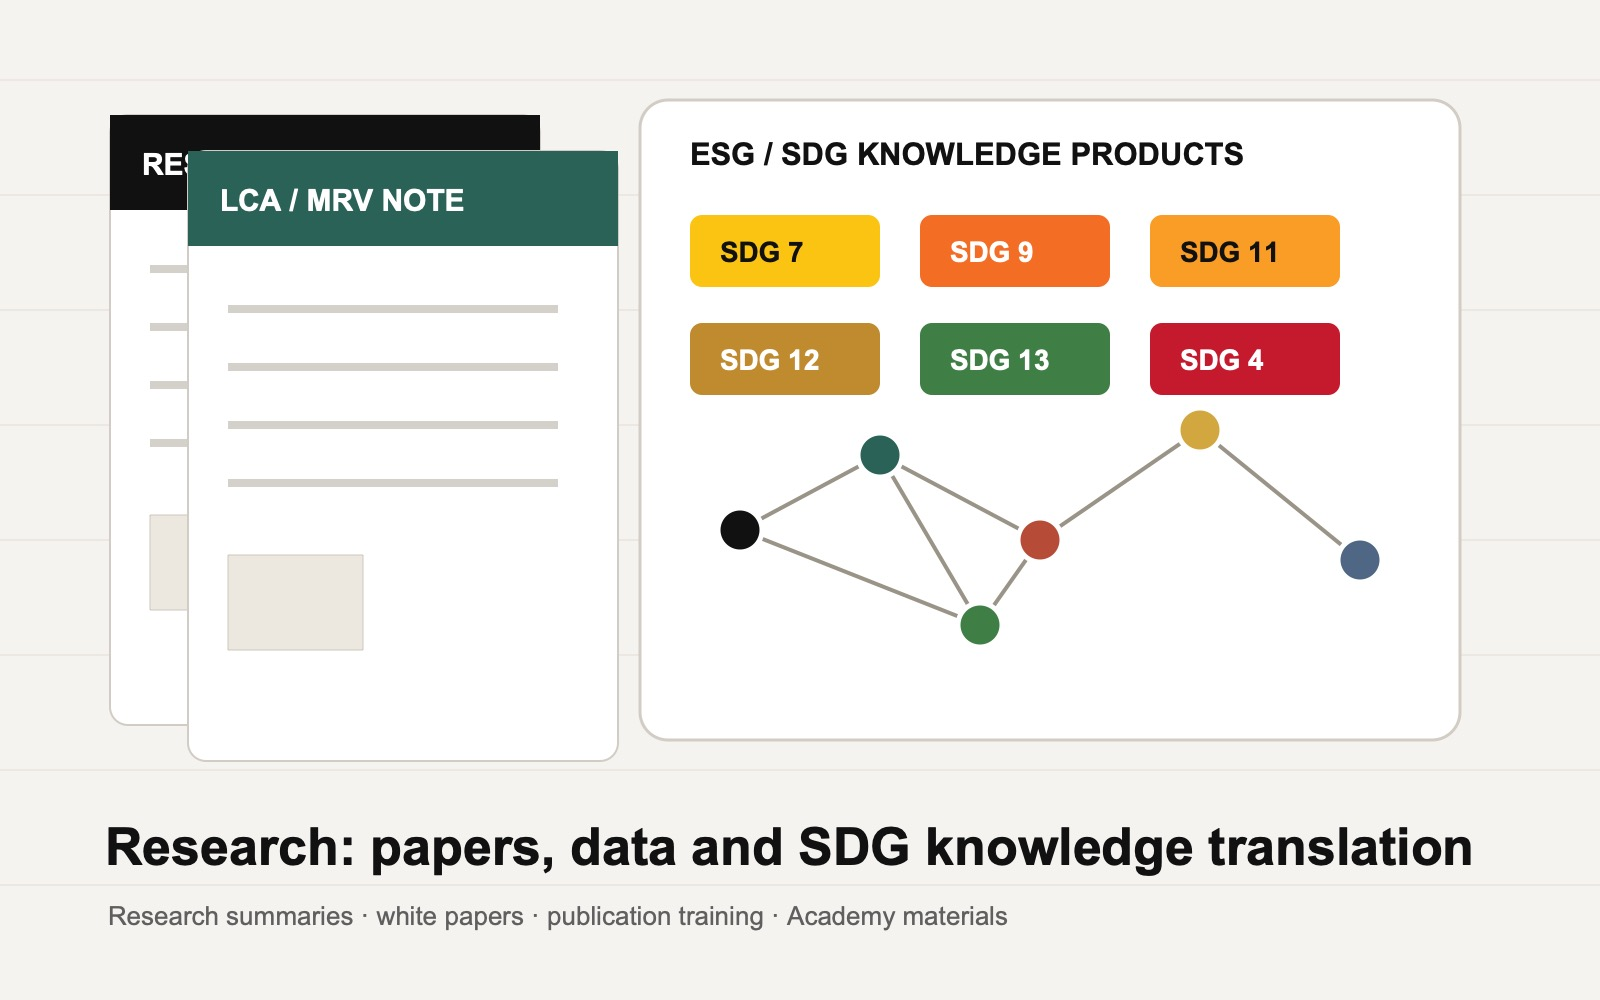
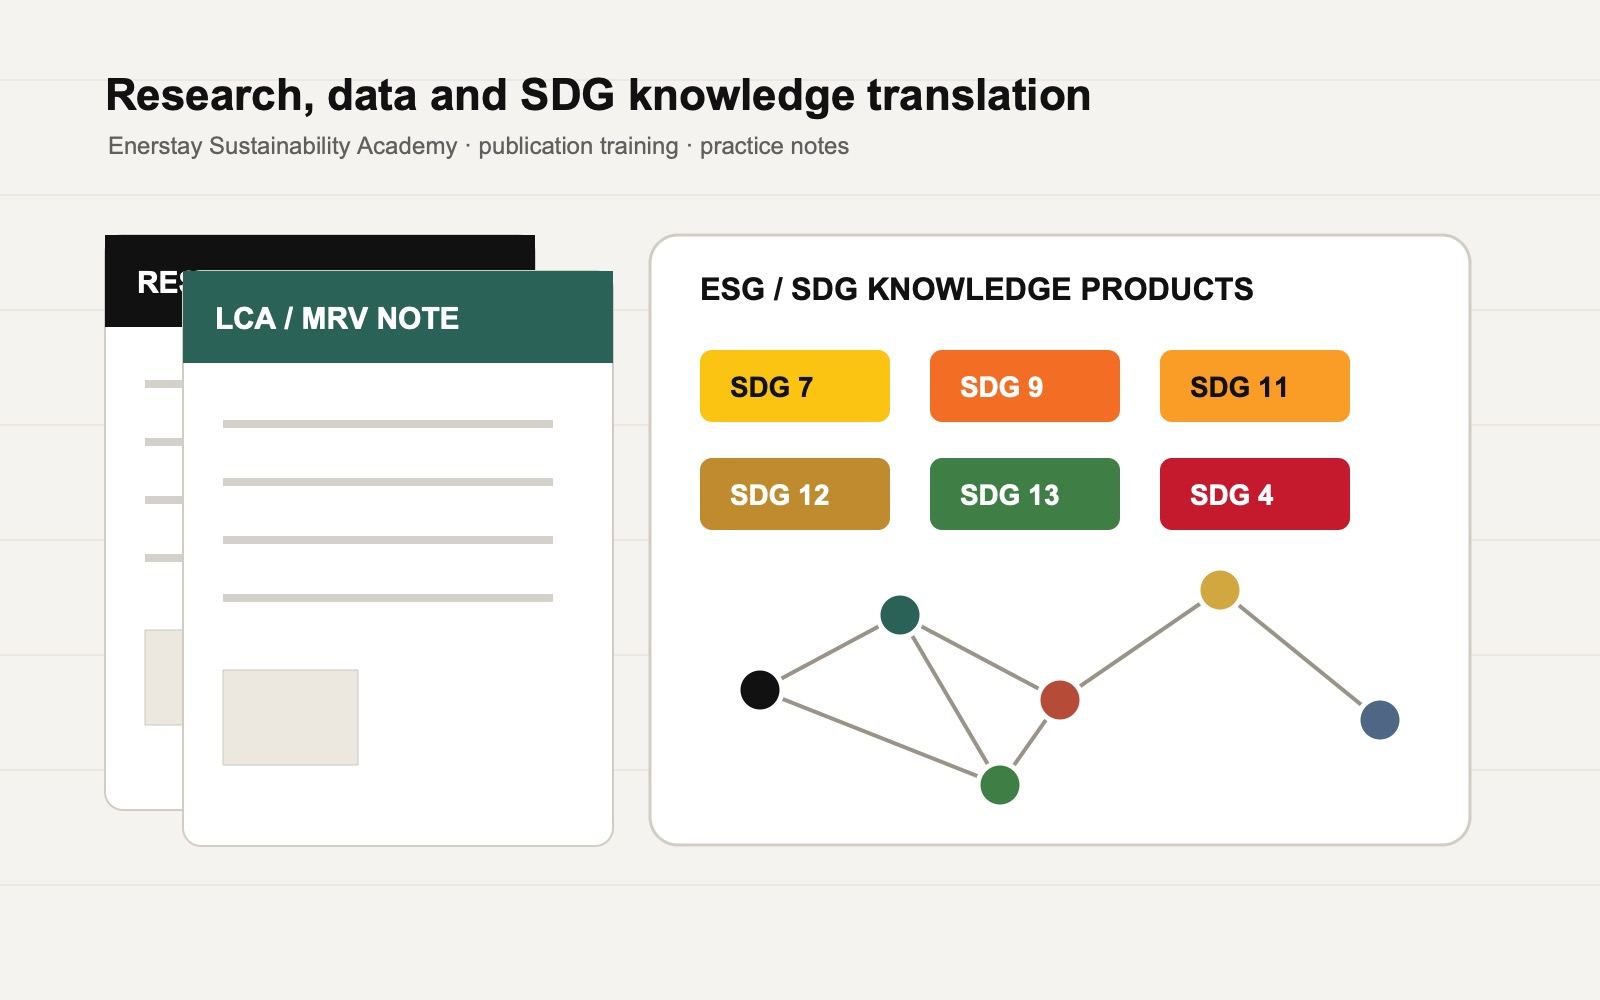
Tighten bilingual layout and research section

diff --git a/styles.css b/styles.css
@@ -139,12 +139,12 @@ a {
   font-size: 13px;
 }
 
-.lang-toggle [data-lang-current] {
+.lang-toggle [data-active="true"] {
   background: var(--ink);
   color: #fff;
 }
 
-.lang-toggle [data-lang-next] {
+.lang-toggle span:not([data-active="true"]) {
   color: var(--muted);
 }
 
@@ -258,6 +258,10 @@ html[lang="en"] h2 {
   font-size: clamp(30px, 3.4vw, 42px);
 }
 
+html[lang="zh-CN"] .nav {
+  font-size: 13px;
+}
+
 h3 {
   margin-bottom: 10px;
   font-size: 21px;
@@ -346,7 +350,7 @@ h3 {
 .section {
   width: min(1180px, calc(100% - 36px));
   margin: 0 auto;
-  padding: clamp(64px, 9vw, 108px) 0;
+  padding: clamp(52px, 7vw, 86px) 0;
 }
 
 .intro {
@@ -603,6 +607,14 @@ h3 {
   border-top: 1px solid var(--line);
 }
 
+.training,
+.compact-research {
+  position: relative;
+  background: #f0eee8;
+  box-shadow: 0 0 0 100vmax #f0eee8;
+  clip-path: inset(0 -100vmax);
+}
+
 .track-grid,
 .standard-grid {
   display: grid;
@@ -789,8 +801,8 @@ h3 {
 
 .research {
   display: grid;
-  grid-template-columns: 0.92fr 1.08fr;
-  gap: clamp(28px, 5vw, 64px);
+  grid-template-columns: minmax(280px, 0.72fr) minmax(0, 1.28fr);
+  gap: clamp(24px, 4vw, 46px);
   align-items: center;
 }
 
@@ -800,7 +812,7 @@ h3 {
 }
 
 .research-visual img {
-  aspect-ratio: 4 / 3;
+  aspect-ratio: 16 / 10;
   width: 100%;
   object-fit: contain;
   border-radius: 8px;
@@ -1527,7 +1539,7 @@ textarea {
 }
 
 .credentials-priority {
-  padding-top: clamp(56px, 8vw, 88px);
+  padding-top: clamp(54px, 7vw, 82px);
 }
 
 .priority-highlights {
@@ -2034,11 +2046,23 @@ textarea {
   }
 
   .hero {
-    min-height: 760px;
+    min-height: 700px;
   }
 
   .catalog-hero {
-    min-height: 760px;
+    min-height: 700px;
+  }
+
+  .section {
+    padding: 42px 0;
+  }
+
+  .credentials-priority {
+    padding-top: 44px;
+  }
+
+  .trust-bridge {
+    padding: 20px 0;
   }
 
   .hero-content {
@@ -2055,7 +2079,7 @@ textarea {
   }
 
   h2 {
-    font-size: 31px;
+    font-size: 29px;
   }
 
   .founder-card h2 {

diff --git a/script.js b/script.js
@@ -836,8 +836,7 @@ Object.assign(translations.en, {
 let activeLanguage = "en";
 const languageStorageKey = "enerstay-language-v3";
 const toggle = document.querySelector("[data-lang-toggle]");
-const langCurrent = document.querySelector("[data-lang-current]");
-const langNext = document.querySelector("[data-lang-next]");
+const langOptions = document.querySelectorAll("[data-lang-option]");
 const nodes = document.querySelectorAll("[data-i18n]");
 const engagementForm = document.querySelector("[data-engagement-form]");
 const siteHeader = document.querySelector(".site-header");
@@ -853,9 +852,10 @@ function renderLanguage(language) {
       node.textContent = translations[language][key];
     }
   });
-  if (langCurrent && langNext) {
-    langCurrent.textContent = language === "zh" ? "中" : "EN";
-    langNext.textContent = language === "zh" ? "EN" : "中";
+  if (langOptions.length) {
+    langOptions.forEach((option) => {
+      option.dataset.active = String(option.dataset.langOption === language);
+    });
   } else if (toggle) {
     toggle.textContent = language === "zh" ? "EN" : "中";
   }

diff --git a/research.html b/research.html
@@ -39,7 +39,7 @@
         <a href="research.html" data-i18n="nav.research">Research</a>
         <a href="index.html#contact" data-i18n="nav.contact">Contact</a>
       </nav>
-      <button class="lang-toggle" type="button" aria-label="Switch language" data-lang-toggle><span data-lang-current>EN</span><span data-lang-next>中</span></button>
+      <button class="lang-toggle" type="button" aria-label="Switch language" data-lang-toggle><span data-lang-option="en">EN</span><span data-lang-option="zh">中</span></button>
     </header>
 
     <main>

diff --git a/training.html b/training.html
@@ -39,7 +39,7 @@
         <a href="research.html" data-i18n="nav.research">Research</a>
         <a href="index.html#contact" data-i18n="nav.contact">Contact</a>
       </nav>
-      <button class="lang-toggle" type="button" aria-label="Switch language" data-lang-toggle><span data-lang-current>EN</span><span data-lang-next>中</span></button>
+      <button class="lang-toggle" type="button" aria-label="Switch language" data-lang-toggle><span data-lang-option="en">EN</span><span data-lang-option="zh">中</span></button>
     </header>
 
     <main>

diff --git a/index.html b/index.html
@@ -68,7 +68,7 @@
         <a href="#research" data-i18n="nav.research">Research</a>
         <a href="#contact" data-i18n="nav.contact">Contact</a>
       </nav>
-      <button class="lang-toggle" type="button" aria-label="Switch language" data-lang-toggle><span data-lang-current>EN</span><span data-lang-next>中</span></button>
+      <button class="lang-toggle" type="button" aria-label="Switch language" data-lang-toggle><span data-lang-option="en">EN</span><span data-lang-option="zh">中</span></button>
     </header>
 
     <main id="home">
